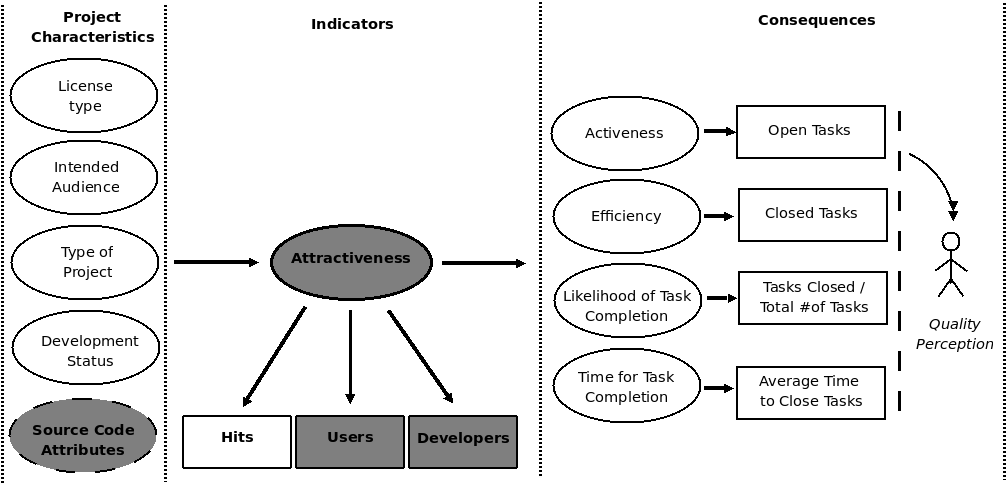
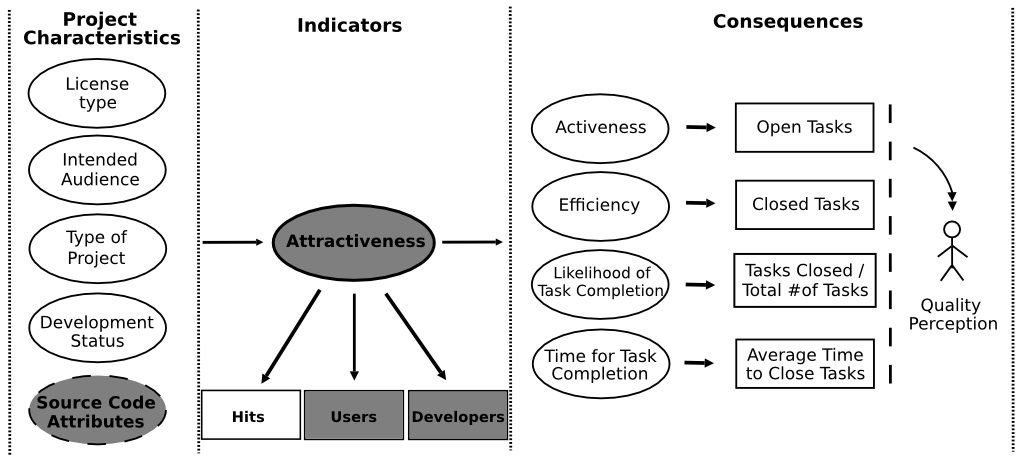
appling Joao's final review

diff --git a/sbes2010/sourcecode_attractiveness.tex b/sbes2010/sourcecode_attractiveness.tex
@@ -66,7 +66,7 @@ contributors and users around their software, enabling further enhancement in qu
 
 The adoption of Free and Open Source Software\footnote{In this study,
 we consider the terms Free Software and Open Source Software (OSS) equivalent.}
-has significantly increased in the last decades, to the point of becoming
+has significantly increased in the last decades to the point of becoming
 influential to the global economy~\cite{Benkler06}.
 %
 Although Free Software has emerged as a movement supported by volunteer developers,
@@ -83,7 +83,7 @@ their quality expectations.
 
 This satisfaction and quality is usually achieved thanks to the collaboration
 of a large user and developer community who reports failures,
-fixes bugs, and adds features.
+fixes bugs and adds features.
 %
 In fact, the Free Software development model is said to offer two main advantages:
 the potential for peer-review and the possibility of attracting developers
@@ -281,7 +281,7 @@ our metric of structural complexity (SC)~\cite{darcy2005}.
 
 \begin{figure*}[!t]
 \centering
-\includegraphics[scale=.45]{figure/attractiveness3}
+\includegraphics[scale=.35]{figure/attractiveness3}
 \caption{Attractiveness research and measurement model
 -- adapted from Santos Jr.~\cite{Santos2010}}
 \label{attractiveness}
@@ -445,8 +445,8 @@ to test our hypothesis, which are discussed in Section~\ref{hypotheses}.
 \texttt{Analizo}\footnote{\url{softwarelivre.org/mezuro/analizo}} is a 
 multi-language source code analysis tool.
 %
-Its architecture was designed to support source code parsing, for different
-languages, and to report useful information about it.
+Its architecture was designed to support source code parsing in different
+languages and to report useful information about it.
 
 A basic requirement of our source code analysis tool was the ability to analyze
 source code written in multiple languages.
@@ -459,15 +459,17 @@ In addition, tools based on object code are not
 capable of analyzing features present only in the source, such as comments.
 %
 To avoid these problems, \texttt{Analizo} is designed to extract the information
-directly from source code parsers.
+directly from source code files.
 
 \texttt{Analizo} uses \texttt{Doxyparse}\footnote{\url{softwarelivre.org/mezuro/doxyparse}},
 a multi-language source code parser based on Doxygen's internals, to parse the source code.
 %
 This feature provides \texttt{Analizo} with the potential ability to parse all 
-the languages supported by Doxygen\footnote{\url{doxygen.org}}, but, 
+the languages supported by \texttt{Doxygen}\footnote{\url{doxygen.org}}, but, 
 up to the moment, it has been tested only with C, C++, and Java source code.
 
+% João: não se concordo em colocar todas as métricas que a Analizo calcula se não faz sentido para C
+% Ou mudamos a frase para não falar de C ou tiramos métricas como DIT, NOC,...
 \texttt{Analizo} has been fully tested with C source code downloaded from 
 Sourceforge.net projects, supporting the computation of  fourteen metrics:
 \begin{itemize}
@@ -573,7 +575,7 @@ to perform data collection:
 
 \begin{enumerate}
 \item Download the code of all the projects. This resulted in the source code 
-for 10,128 projects since some of them had no available files (empty``files''
+for 10,128 projects since some of them had no available files (empty ``files''
 section in the SourceForge.net project pages);
 
 \item Run \texttt{Analizo} sequentially for all projects and store the computed metrics in a single database.
@@ -584,7 +586,7 @@ The metrics were successfully computed for 6,773 projects only, because
 %
 (ii) the source code was not written in C, (the project was incorrectly 
 classified as being written in C), or
-%
+% João: infinite loops? A gente não roda o programa para dar loop infinito. Eu colocaria syntax errors ou algo do tipo.
 (iii) some files could not be processed by \texttt{Analizo} due to severe
 errors in the source code (e.g., infinite loops);
 
@@ -630,18 +632,18 @@ and average CBO.
 %
 Since it is possible to generalize the concepts of ``class'' and ``method''
 to ``module'' and ``function'', respectively, NOF, NPV, NPF, LCOM4 and CBO 
-were applied to the procedural paradigm of the C language. 
+were applied to the C language procedural paradigm. 
 %%\TODO Chris pediu referencia AQUI, mas nao vou ter tempo. 
 %%Talvez o Terceiro tenha. Antes a ideia disso estava numa nota de rodape
 
-In cases of ACC, AMZ\_Size, COF, DIT, NOC, NOV, and RFC metrics are not used 
-because the source code attributes that they measure are not in the scope of this study.
+ACC, AMZ\_Size, COF, DIT, NOC, NOV, and RFC metrics were not used 
+because the source code attributes that they measure are intrinsically related to the 
+object oriented paradigm.
 %
-We needed to limit the scope to accomplish the study. Thereby, we selected an initial 
-subset of source code metrics based in the criteria that we wanted a simple
-statistical model with size and complexity structural metrics. 
+In order to accomplish this study, we needed to limit its scope. Thereby, we selected an initial 
+subset of source code metrics looking forward to assemble a simple
+statistical model with size and structural complexity metrics, disregarding some other measures.
 %
-Therefore, in this first study, we disregard some other metrics.
 
 %\vspace{-3em}
 \begin{center}
@@ -657,7 +659,7 @@ Lack of Cohesion on Methods & 0.141 & - & 0.786 & 0.019 & 0.472 & 0.102 & 0.311 
 \\ \hline
 Structural Complexity       & 0.723 & 0.786 & - & 0.254 & 0.666 & 0.338 & 0.493 & 0.564 & 0.127 & 0.156
 \\ \hline
-Number of Modules           & 0.308 & 0.019 & 0.254 & - & 0.799 & 0.730 & 0.815 & 0.827 & 0.311 & 0.344
+    Number of Modules           & 0.308 & 0.019 & 0.254 & - & 0.799 & 0.730 & 0.815 & 0.827 & 0.311 & 0.344
 \\ \hline
 Lines of Code               & 0.608 & 0.472 & 0.666 & 0.799 & - & \textbf{0.872} & \textbf{0.923} & \textbf{0.927} & 0.328 & 0.410
 \\ \hline
@@ -748,7 +750,7 @@ showed high correlation between each other, according to Pearson's
 parametric correlations shown in the Table~\ref{pearson}.
 %
 Highly correlated variables indicate that they are representations of
-a same attribute, thereby making it unnecessary to use more than one.
+a same attribute, making it unnecessary to use more than one.
 %
 Since all these metrics represent a similar concept, we selected one of them -- LOC -- 
 for our statistical analysis to reduce multicollinearity.
@@ -763,7 +765,7 @@ Pearson correlations performed just as well as the non-parametric indices.
 Thus, we chose the Pearson parametric correlation because it represents the most 
 commonly used form of correlation index, and it also provides the basis for the 
 regression analysis we performed later. That way, we could maintain
-consistency because multiple regression techniques are based on
+consistency once multiple regression techniques are based on
 parametric indices~\cite{hair2006}.
 
 According to analysis described above, we ended up considering LOC and NM 
@@ -779,13 +781,12 @@ Pearson's correlations values were approximately 0.9 or higher as our criteria,
 emphasized in Table~\ref{pearson}.
 
 %
-In conclusion, LOC and NM measure different kinds of size metrics, more or less
+In conclusion, LOC and NM were collected since they measure different kinds of size metrics, more or less
 influenced by programming languages and coding styles, respectively.
 %
-Thereby, we collected both the LOC and NM metrics.
-
-Finally, CBO and LCOM4 were multiplied to obtain the value of our structural
-complexity metric (SC), explained in Section~\ref{background}.
+% João: fiz essa mudança para quebrar a mesma estrutura de frase
+Finally, to obtain the value of our structural
+complexity metric (SC), explained in Section~\ref{background}, CBO and LCOM4 were multiplied.
 %
 These three metrics did not show high correlations with other metrics.
 %
@@ -829,7 +830,7 @@ Thus, we have two different regressions, one for each attractiveness indicator.
 %
 They are the variables explained by the source code attributes proposed in our hypotheses.
 %
-Consequently, SC, LOC and MN metrics, which represent the source code attributes,
+Consequently, SC, LOC and NM metrics, which represent the source code attributes,
 are the independent variables -- the influencers of attractiveness.
 
 %----------------------------------------------------------------------
@@ -845,7 +846,7 @@ of Free Software projects.
 Thereby, we can later observe whether these attributes influence people's 
 perception of quality as consequence of attractiveness.
 %
-Therefore, according to the metrics chosen to represent structural
+According to the metrics chosen to represent structural
 complexity and size, we formulated three hypotheses:
 
 \begin{enumerate}
@@ -878,7 +879,7 @@ higher attractiveness.}
 The number of modules may indicate the project size and the possibility
 of working in parallel in independent modules.
 %
-More modules may indicate a concern with good design, with better modularization,
+More modules may indicate a concern with good design and better modularization,
 which facilitates contributions.
 %
 This attracts more members, who can write more features and fix more bugs,
@@ -926,13 +927,13 @@ Before running this model, we analyzed and applied statistical techniques
 on the descriptive statistical values of our dataset presented in
 Table~\ref{table:statistics}, discussed in Section~\ref{sdcollection}.
 %
-We selected the variable of our regression model according to our criteria for
-definition of scope this study and analysis of the Pearson parametric
-correlations, and Spearman and Kendal non-parametric correlations,
-Table~\ref{pearson}, Table~\ref{spearman}, and Table~\ref{kendall} respectively,
-presented in detail in Section~\ref{variables}.
+With the results in hand, we selected the variables of our regression model according to our scope
+definition, the analysis of the Pearson parametric
+correlations and Spearman and Kendal non-parametric correlations,
+shown in Table~\ref{pearson}, Table~\ref{spearman}, and Table~\ref{kendall} respectively,
+and presented in detail in Section~\ref{variables}.
 %%TODO: new
-Finally, with the linearized values of SC, NN, and LOC (independent variables) 
+Finally, with the linearized values of SC, NM, and LOC (independent variables) 
 and number of downloads and number of members (dependent variables), we tested 
 our hypotheses according to our statistical multiple regression model compound
 for this variables.
@@ -1087,9 +1088,9 @@ Additionally, when lines of code is kept constant, different values in
 number of modules represent different ways of organizing these features over
 different modules.
 %
-A higher number of modules thus indicates a higher modularity, which in turn makes
-it easier for developers to work on the project, requiring less
-coordination effort. This because is easier to work on modular software.
+A higher number of modules thus indicates a higher modularity, which makes
+it easier for developers to work on the project and requires less
+coordination effort.
 %
 For users, on the other hand, it is probably the case that it does not matter
 whether the software is modular or not; they are only interested in the provided features.
@@ -1099,7 +1100,7 @@ Finally, collaborators in Free Software projects often start participating in
 the project as users, attracted by the software features.
 %
 After that, those users who have the potential to become developers may begin
-to contribute code.
+to contribute with the code.
 %
 While a high number of lines of code (and thus of features) is enough to attract
 users, project leaders should pay attention to source code quality.
